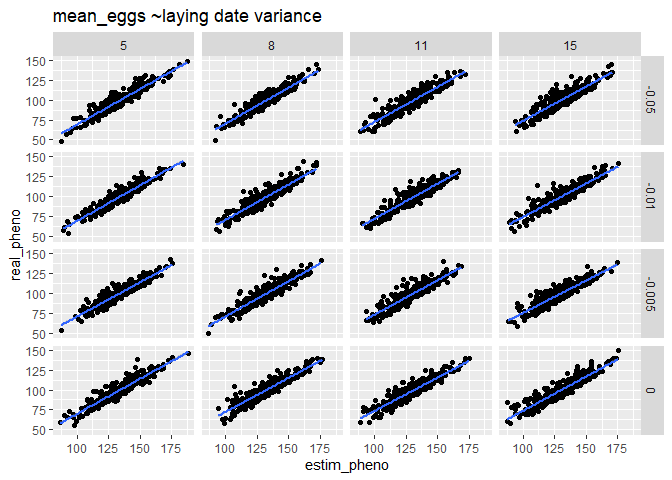
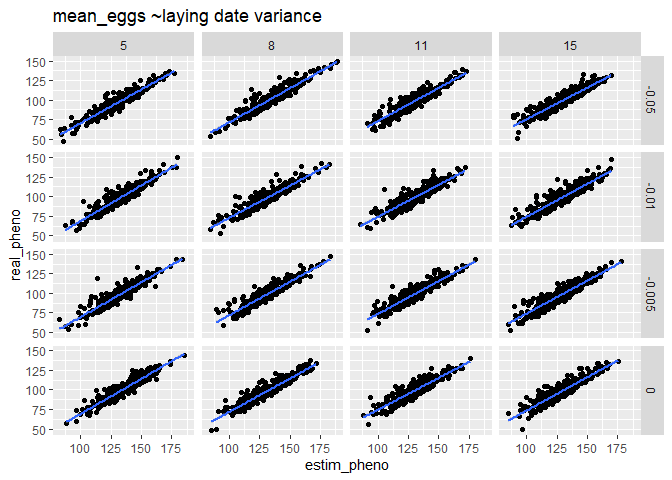
maj 5_

diff --git a/5_variance_and_selection.md b/5_variance_and_selection.md
@@ -1,7 +1,7 @@
 5_variance_and_selection
 ================
 Paul Cuchot
-2024-08-01
+2024-08-02
 
 ## Explore different variances in laying date and selection
 
@@ -256,19 +256,13 @@ low_var_str_sel <- data4$capt_sess%>%
 ```
 
 ``` r
-plot_ <- gridExtra::grid.arrange(high_var_str_sel,
+gridExtra::grid.arrange(high_var_str_sel,
                         low_var_str_sel,
                         high_var_no_sel,
                         low_var_no_sel)
 ```
 
 ![](5_variance_and_selection_files/figure-gfm/unnamed-chunk-11-1.png)<!-- -->
-
-``` r
-plot(plot_)
-```
-
-![](5_variance_and_selection_files/figure-gfm/unnamed-chunk-11-2.png)<!-- -->
 
 ## Estimate phenology, variance, final productivity with the model
 
@@ -446,11 +440,13 @@ data.frame(estim = md_1$BUGSoutput$mean$asig)%>%
 
 ## Explore more parameters
 
+Run 48 models with differents sets of simulated data:
+
 - mean_eggs_expl \<- c(5,8,11,15)
 - sd_ld_expl \<- c(5,10,15)
 - selection_stre_ld_expl \<- c(0,-0.005, -0.01, -0.05)
 
-## Phenology
+### Phenology
 
 - Only high variances in laying dates seem to affect the estimation
   phenology
@@ -485,7 +481,7 @@ data_f%>%
 
 ![](5_variance_and_selection_files/figure-gfm/unnamed-chunk-20-1.png)<!-- -->
 
-## Productivity
+### Productivity
 
 - Selection does not affect estimation of productivity
 - Productivity is harder to assess when birds lay fewer eggs and when
